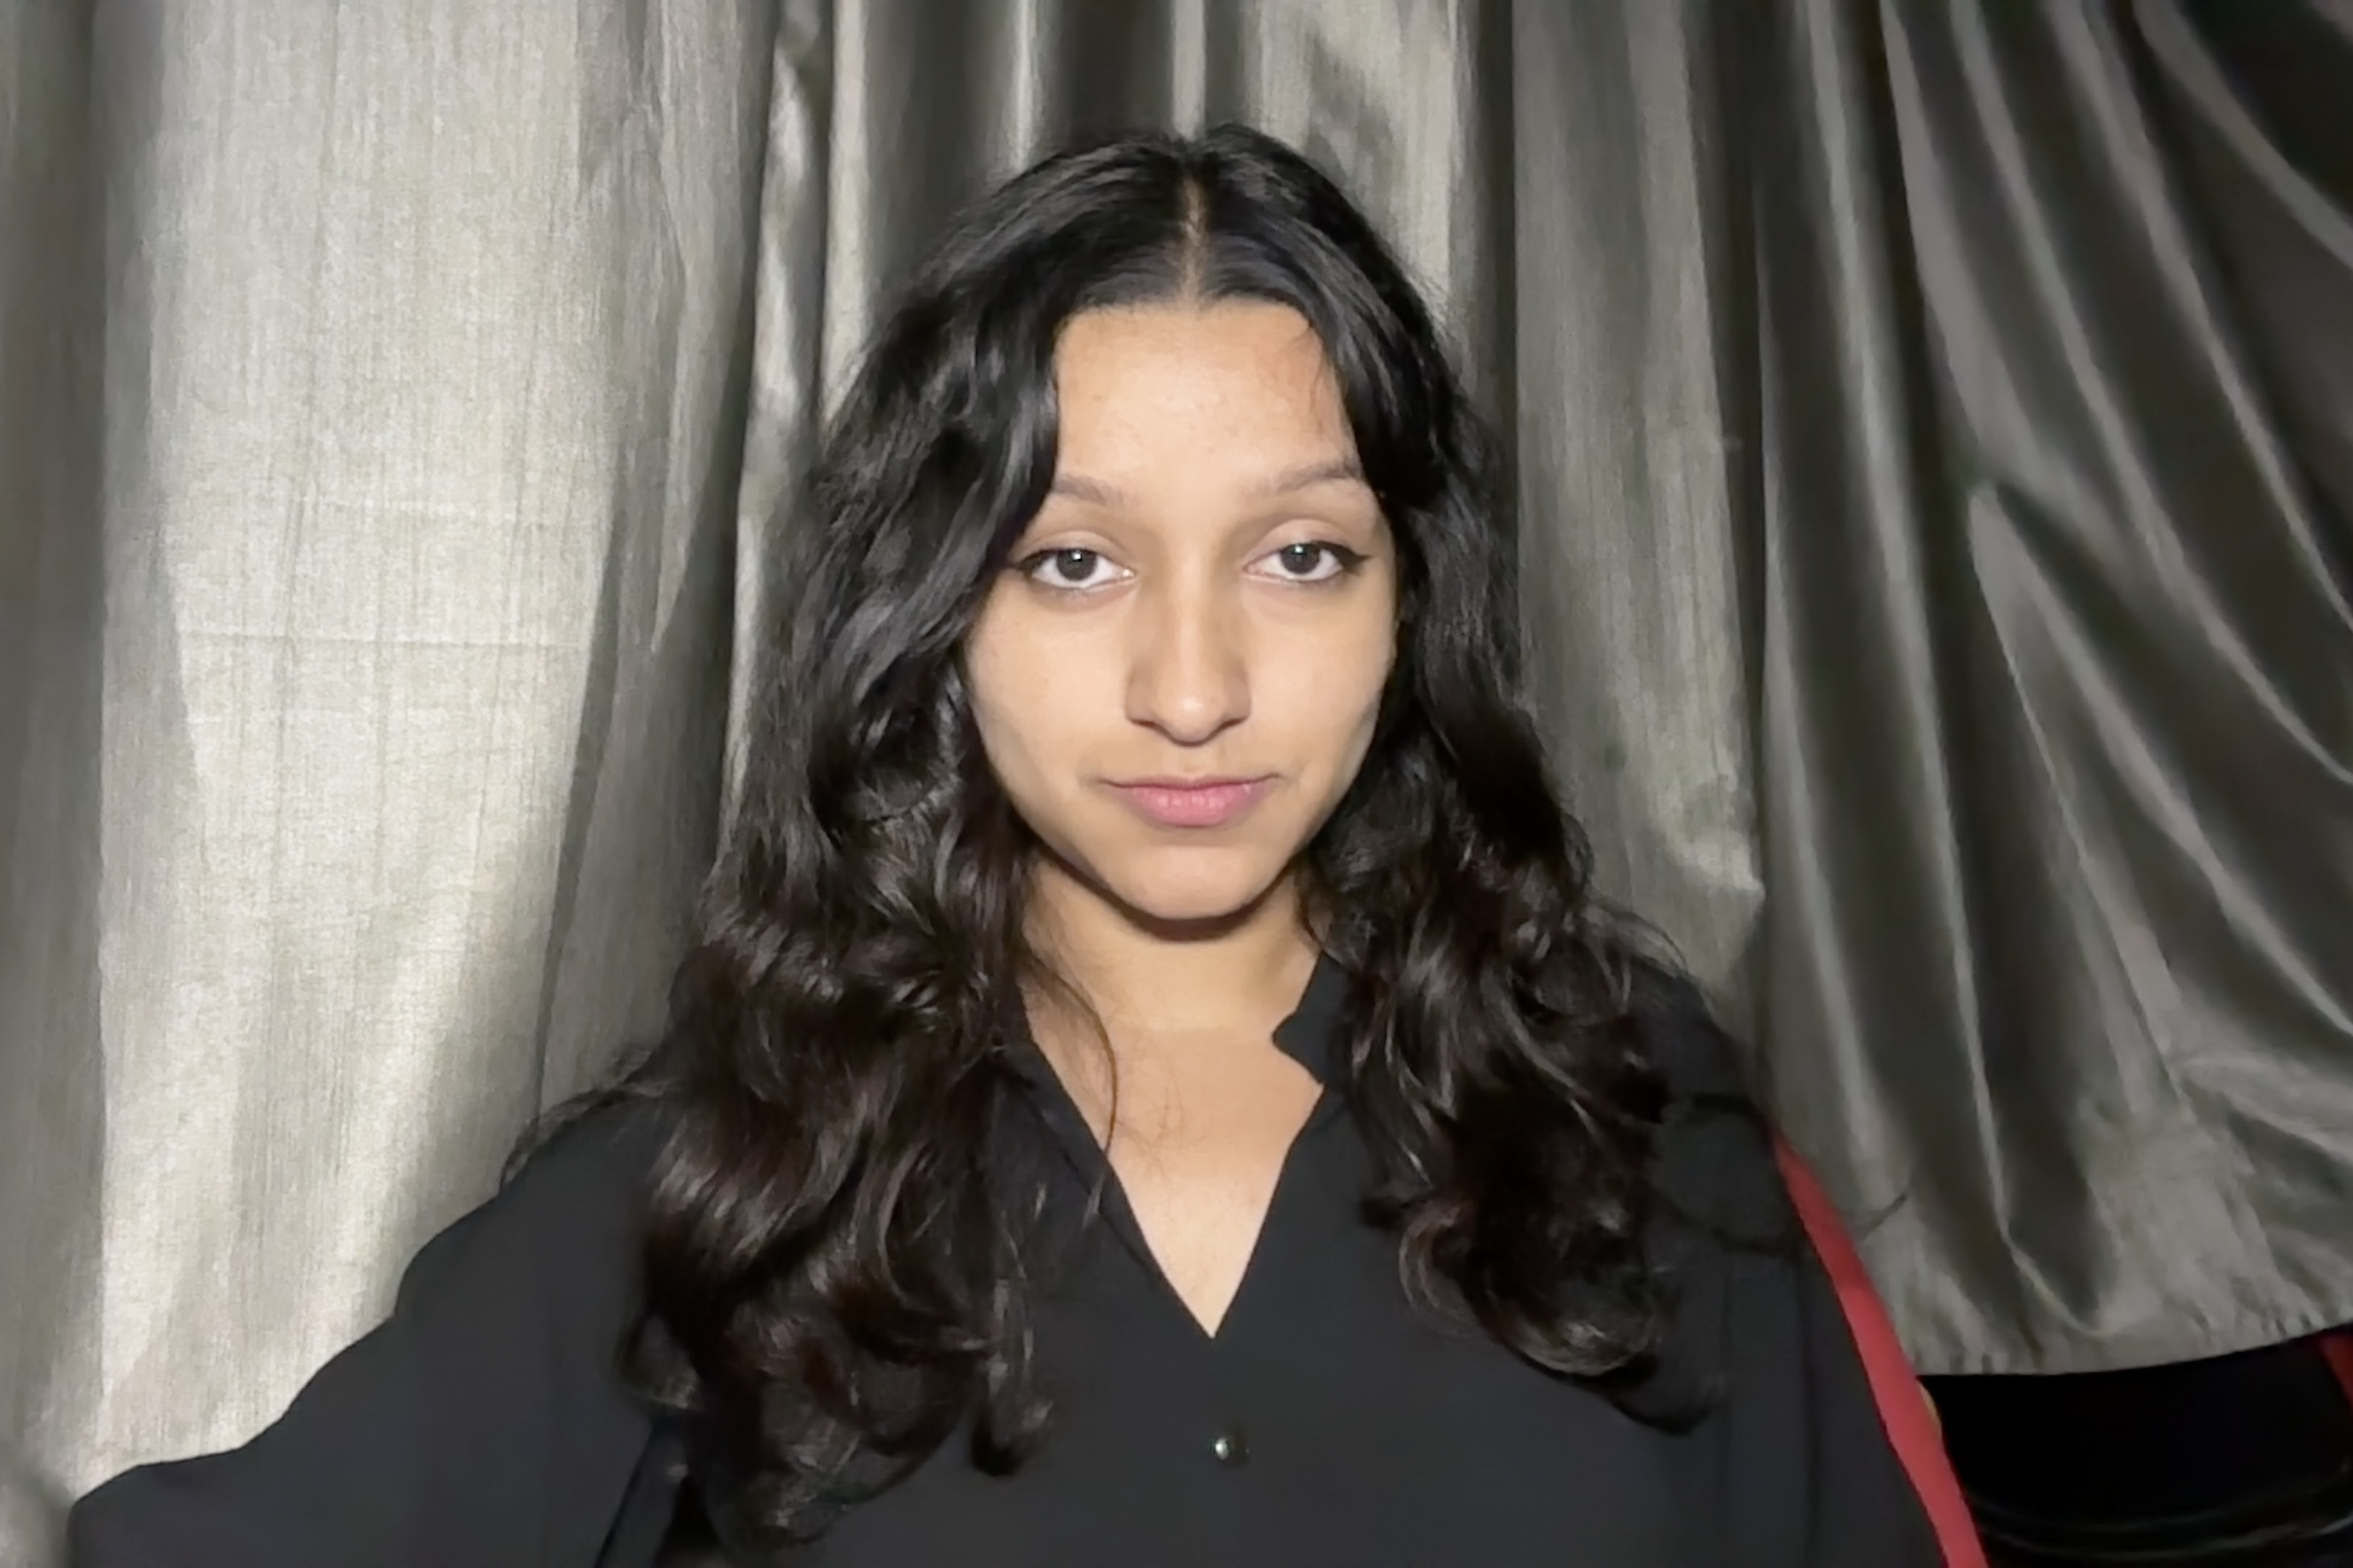
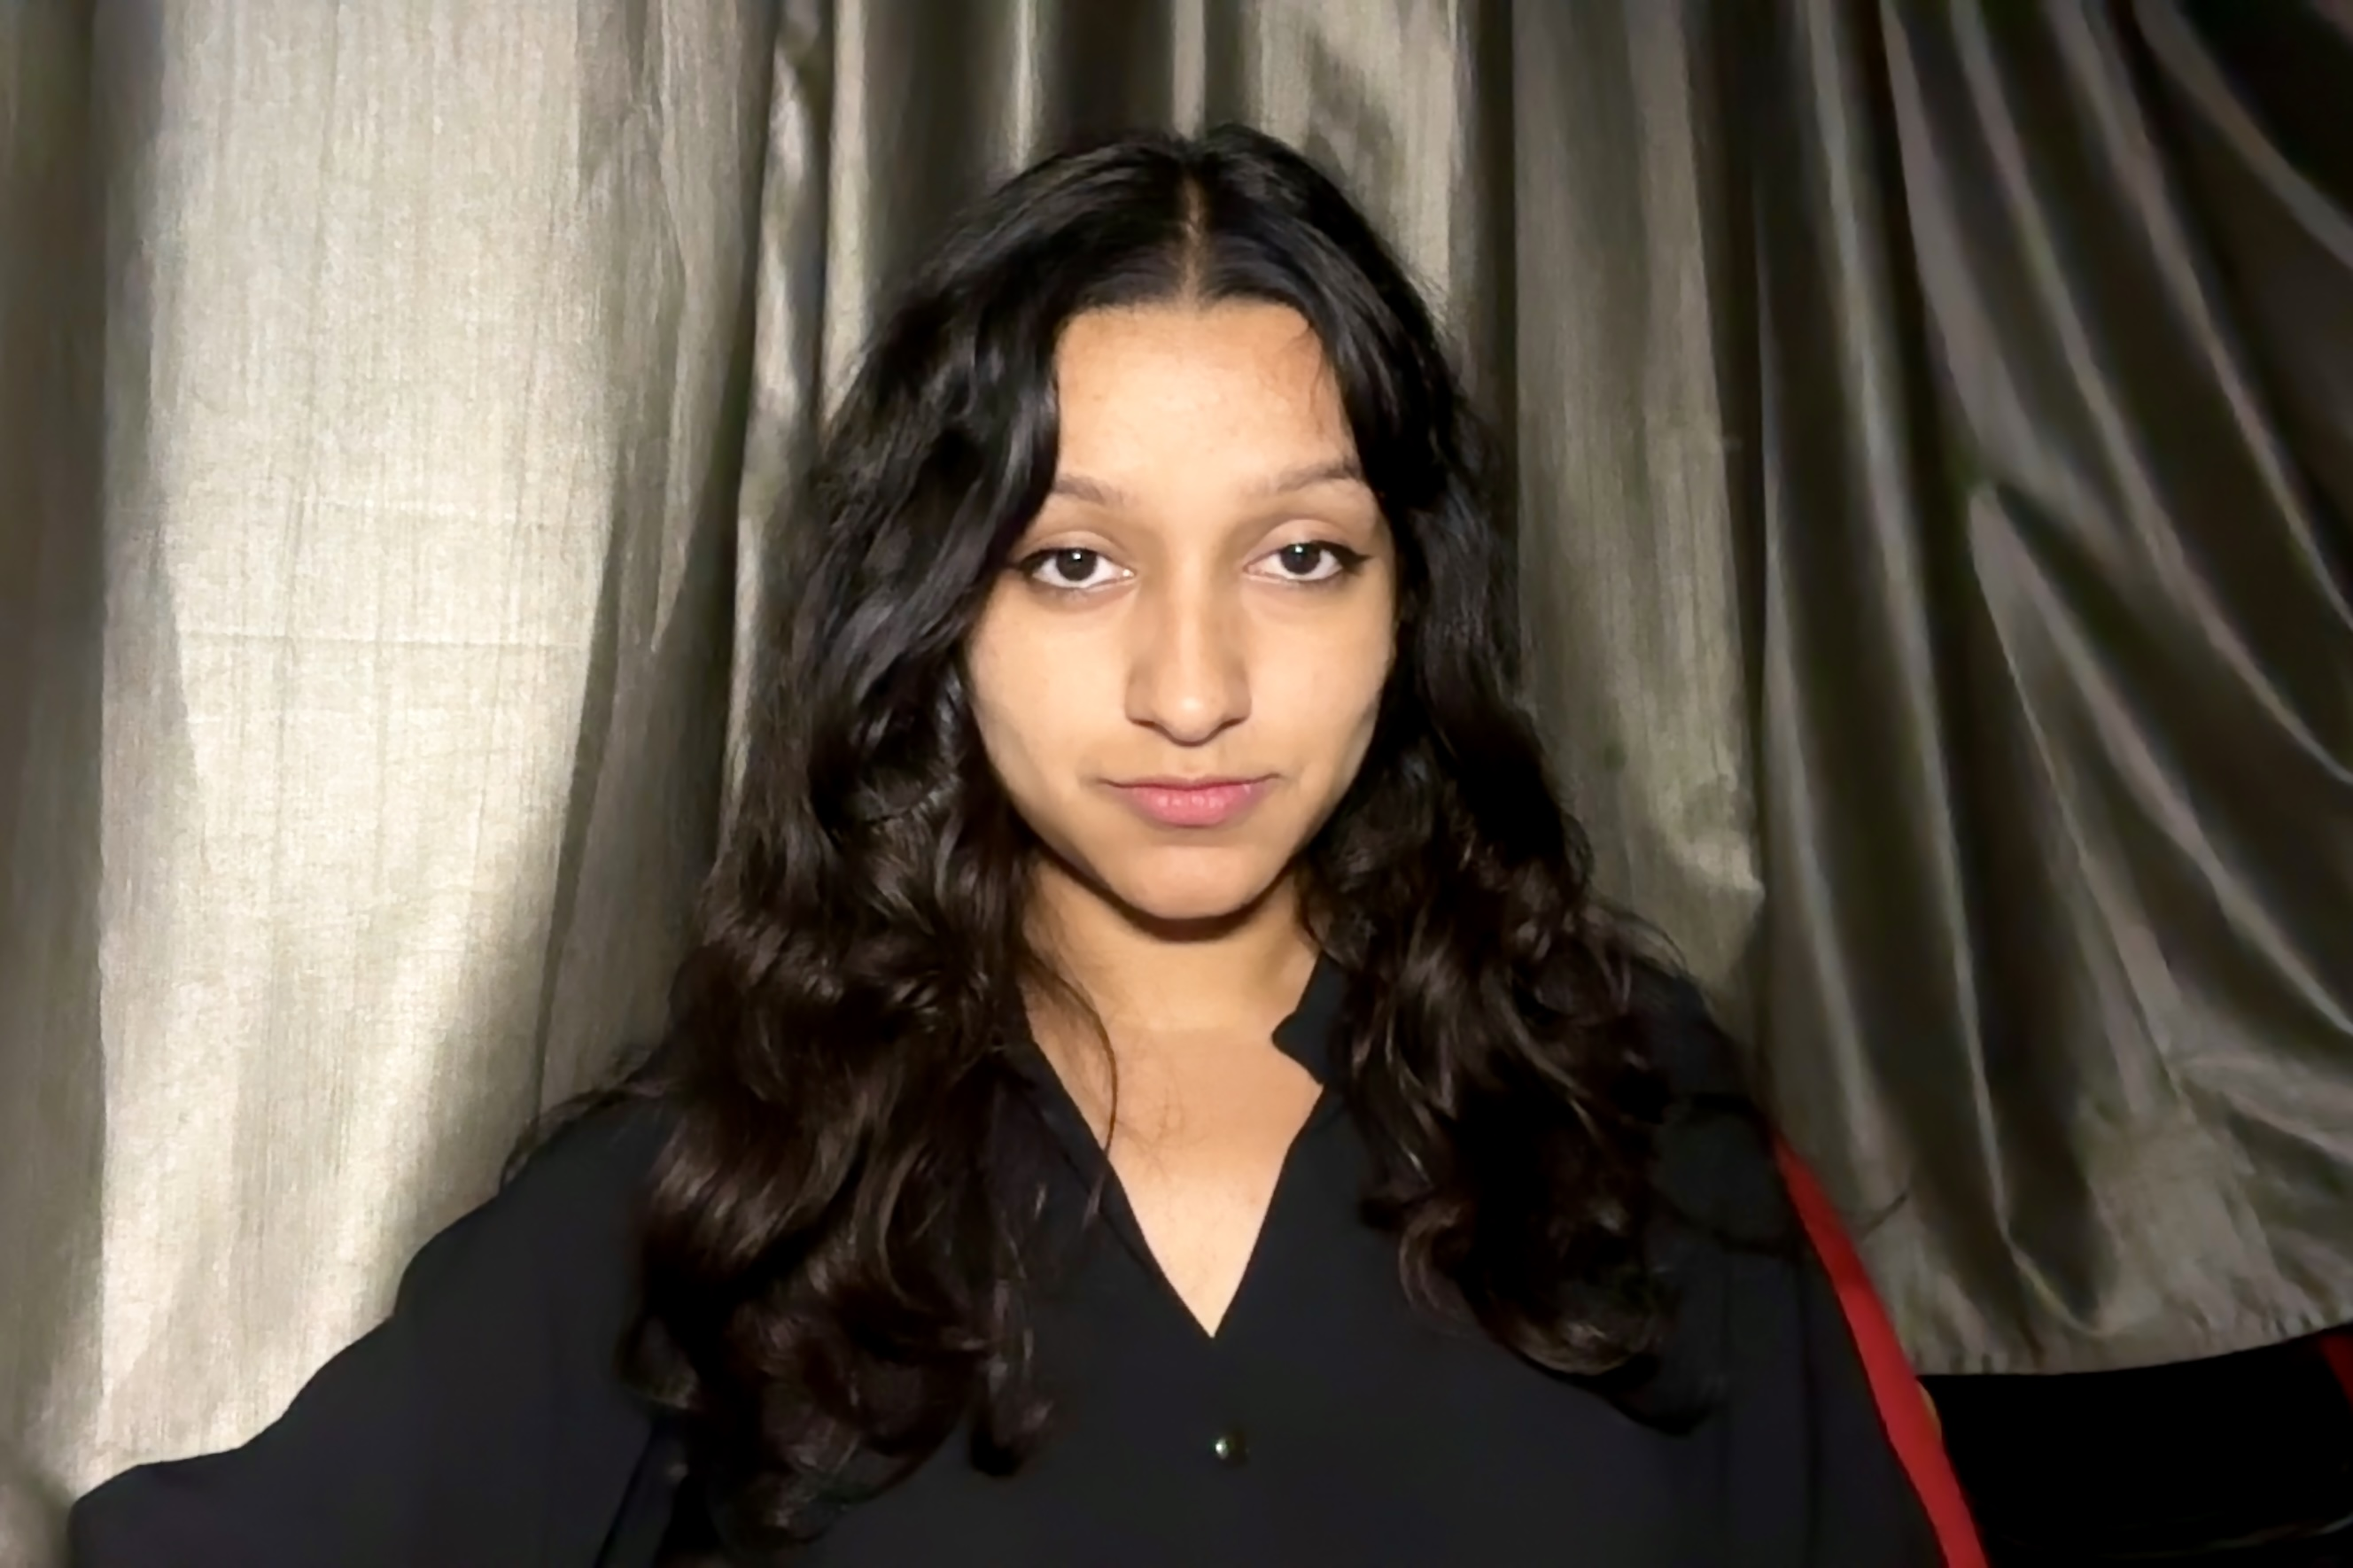
added a new project

diff --git a/frontend/src/data/content.ts b/frontend/src/data/content.ts
@@ -127,19 +127,26 @@ export const portfolioContent = {
     repoUrl: "https://github.com/slayplayagrima/ascend", // replace this
     liveUrl: "https://ascendproject.vercel.app/", 
   },
-    // {
-    //   id: "project-04",
-    //   title: "Urban Housing Market Analysis",
-    //   description:
-    //     "Scraped and cleaned listing data to analyze neighborhood pricing, identify undervalued pockets, and explain pricing drivers with clear visuals.",
-    //   outcome:
-    //     "Combined statistical analysis with data storytelling to make local housing trends easier to compare and present.",
-    //   techStack: ["Python", "BeautifulSoup", "Seaborn", "Statsmodels"],
-    //   imagePath: "/assets/projects/project-04.png",
-    //   imageAlt: "Housing analysis project preview",
-    //   repoUrl: "https://github.com/example/housing-analysis",
-    //   liveUrl: "https://example.com/housing-report",
-    // },
+   {
+  id: "project-04",
+  title: "Belong — Animal Adoption Platform",
+  description:
+    "Built a full-stack adoption platform that connects adopters with NGOs through role-based dashboards, animal listings, profile flows, and adoption request management.",
+  outcome:
+    "Created a scalable frontend and backend scaffold with clean routing, responsive UI, NGO/user flows, and a deploy-ready structure for future database and authentication integration.",
+  techStack: [
+    "React",
+    "TypeScript",
+    "Vite",
+    "Tailwind CSS",
+    "Express.js",
+    "Node.js",
+  ],
+  imagePath: "/assets/projects/project-04.png",
+  imageAlt: "Belong animal adoption platform preview",
+  repoUrl: "https://github.com/slayplayagrima/Belong",
+  liveUrl: "https://belongadoptionsite.vercel.app/",
+}
   ],
   snapshots: {
     eyebrow: "Visuals",

diff --git a/frontend/src/pages/HomePage.tsx b/frontend/src/pages/HomePage.tsx
@@ -14,9 +14,10 @@ export function HomePage() {
       <HeroSection />
       <TechStrip />
       <AboutSection />
-      <SkillsSection />
       <ProjectsSection />
-      <SnapshotsSection />
+      <SkillsSection />
+      {/* <ProjectsSection /> */}
+      {/* <SnapshotsSection /> */}
       <AchievementsSection />
       <ContactSection />
     </SiteShell>
